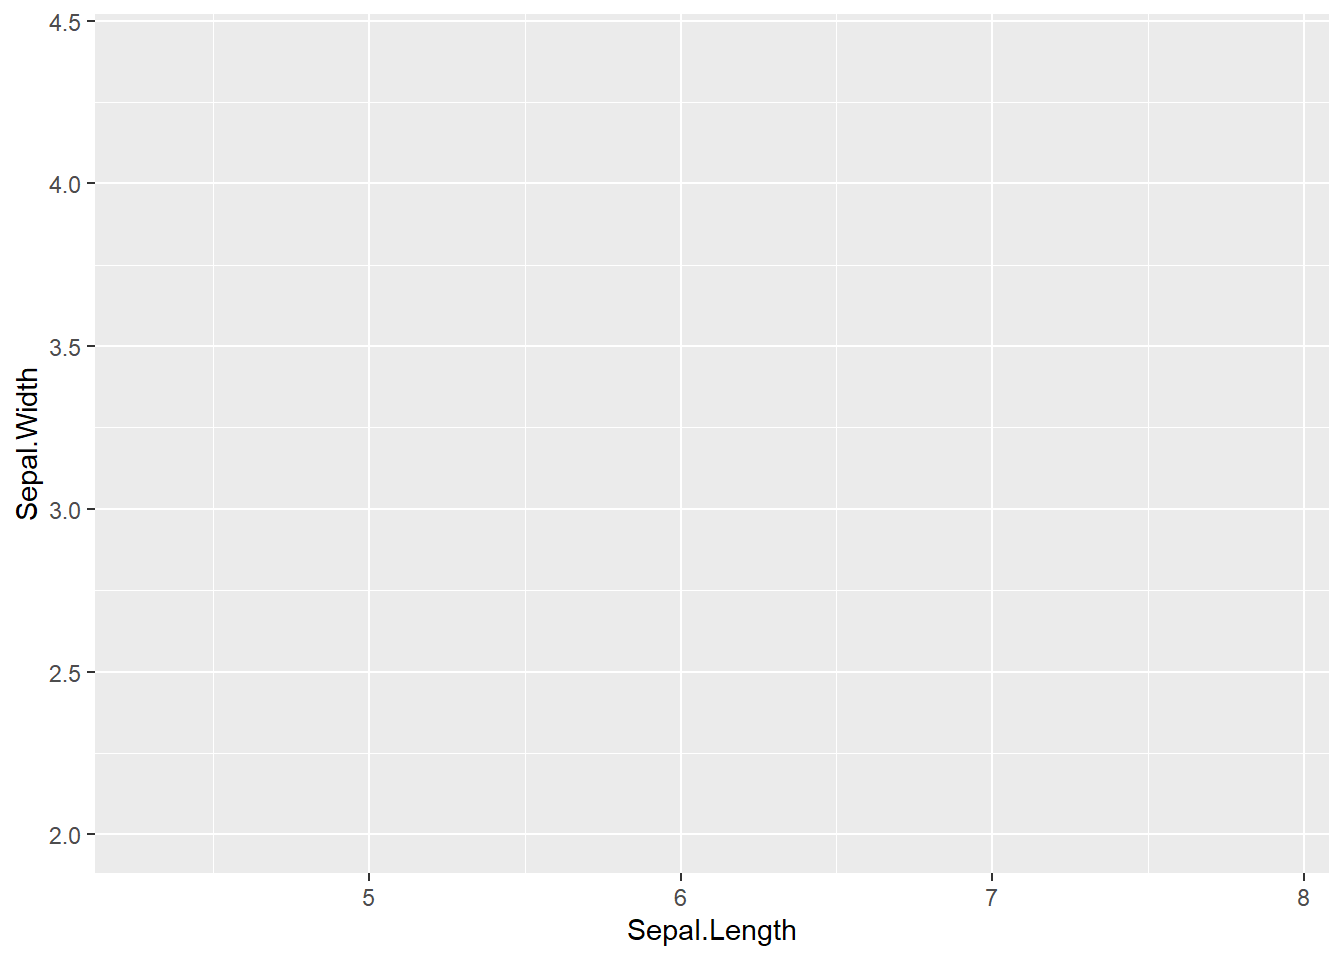
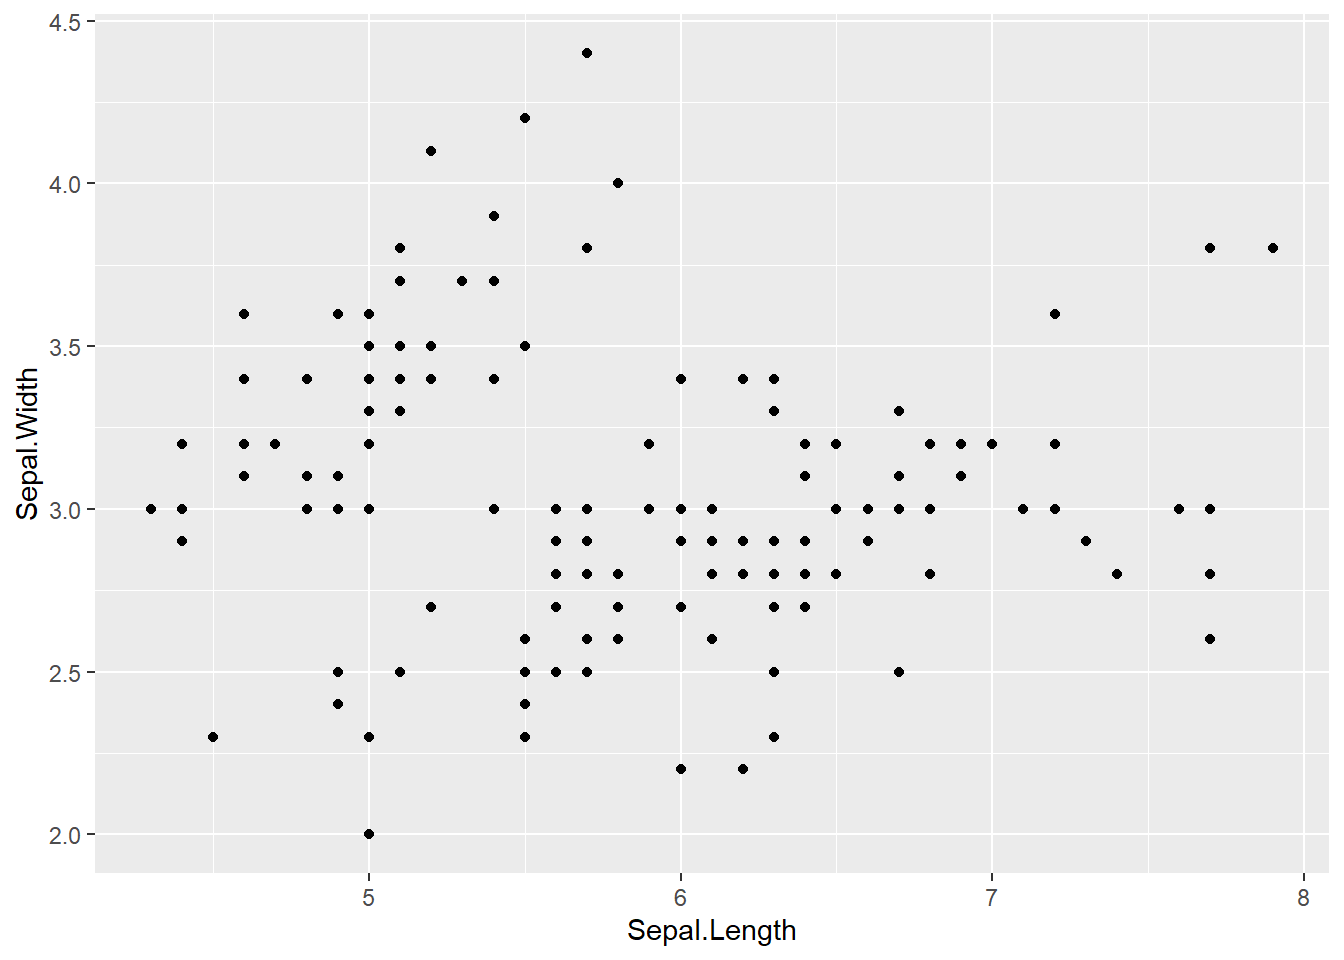
draw

diff --git a/docs/index.html b/docs/index.html
@@ -241,7 +241,8 @@ code span.wa { color: #60a0b0; font-weight: bold; font-style: italic; } /* Warni
 <details>
 <summary>Code</summary>
 <div class="sourceCode cell-code" id="cb1"><pre class="sourceCode r code-with-copy"><code class="sourceCode r"><span id="cb1-1"><a href="#cb1-1" aria-hidden="true" tabindex="-1"></a><span class="fu">library</span>(ggplot2)</span>
-<span id="cb1-2"><a href="#cb1-2" aria-hidden="true" tabindex="-1"></a><span class="fu">ggplot</span>(iris, <span class="fu">aes</span>(Sepal.Length, Sepal.Width))</span></code><button title="Copy to Clipboard" class="code-copy-button"><i class="bi"></i></button></pre></div>
+<span id="cb1-2"><a href="#cb1-2" aria-hidden="true" tabindex="-1"></a><span class="fu">ggplot</span>(iris, <span class="fu">aes</span>(Sepal.Length, Sepal.Width))<span class="sc">+</span></span>
+<span id="cb1-3"><a href="#cb1-3" aria-hidden="true" tabindex="-1"></a>  <span class="fu">geom_point</span>()</span></code><button title="Copy to Clipboard" class="code-copy-button"><i class="bi"></i></button></pre></div>
 </details>
 <div class="cell-output-display">
 <p><img src="index_files/figure-html/unnamed-chunk-1-1.png" class="img-fluid" width="672"></p>
